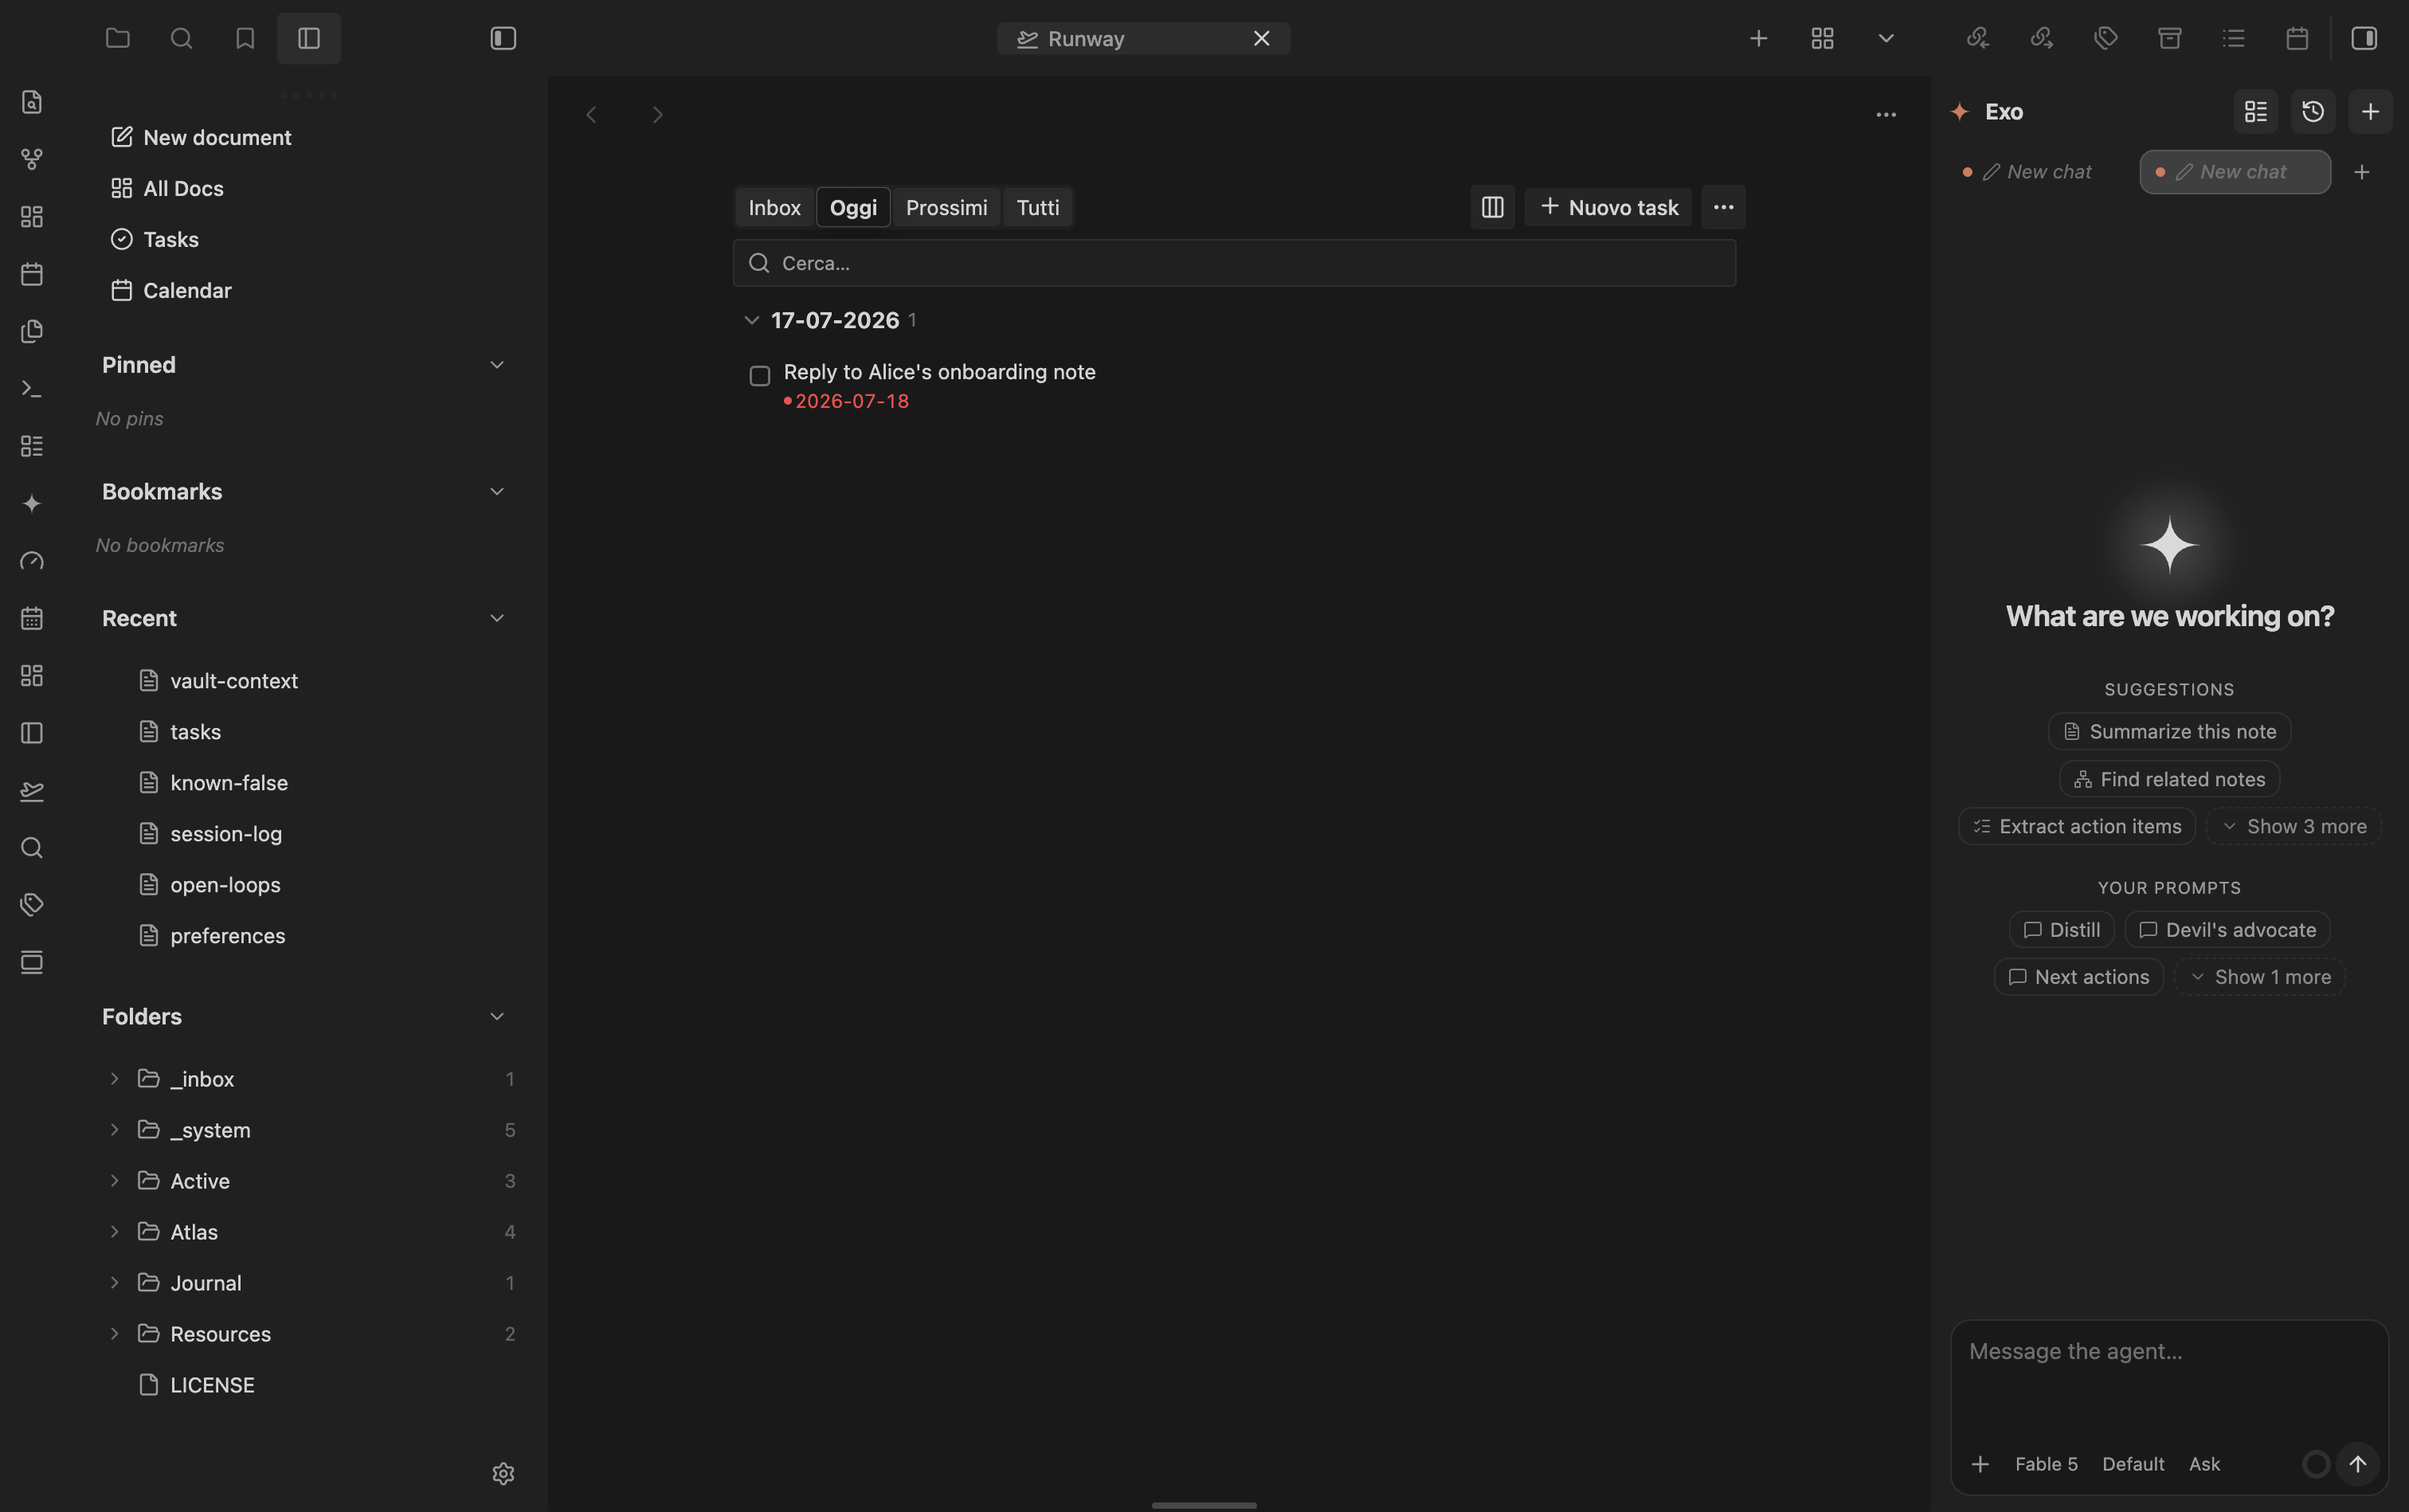
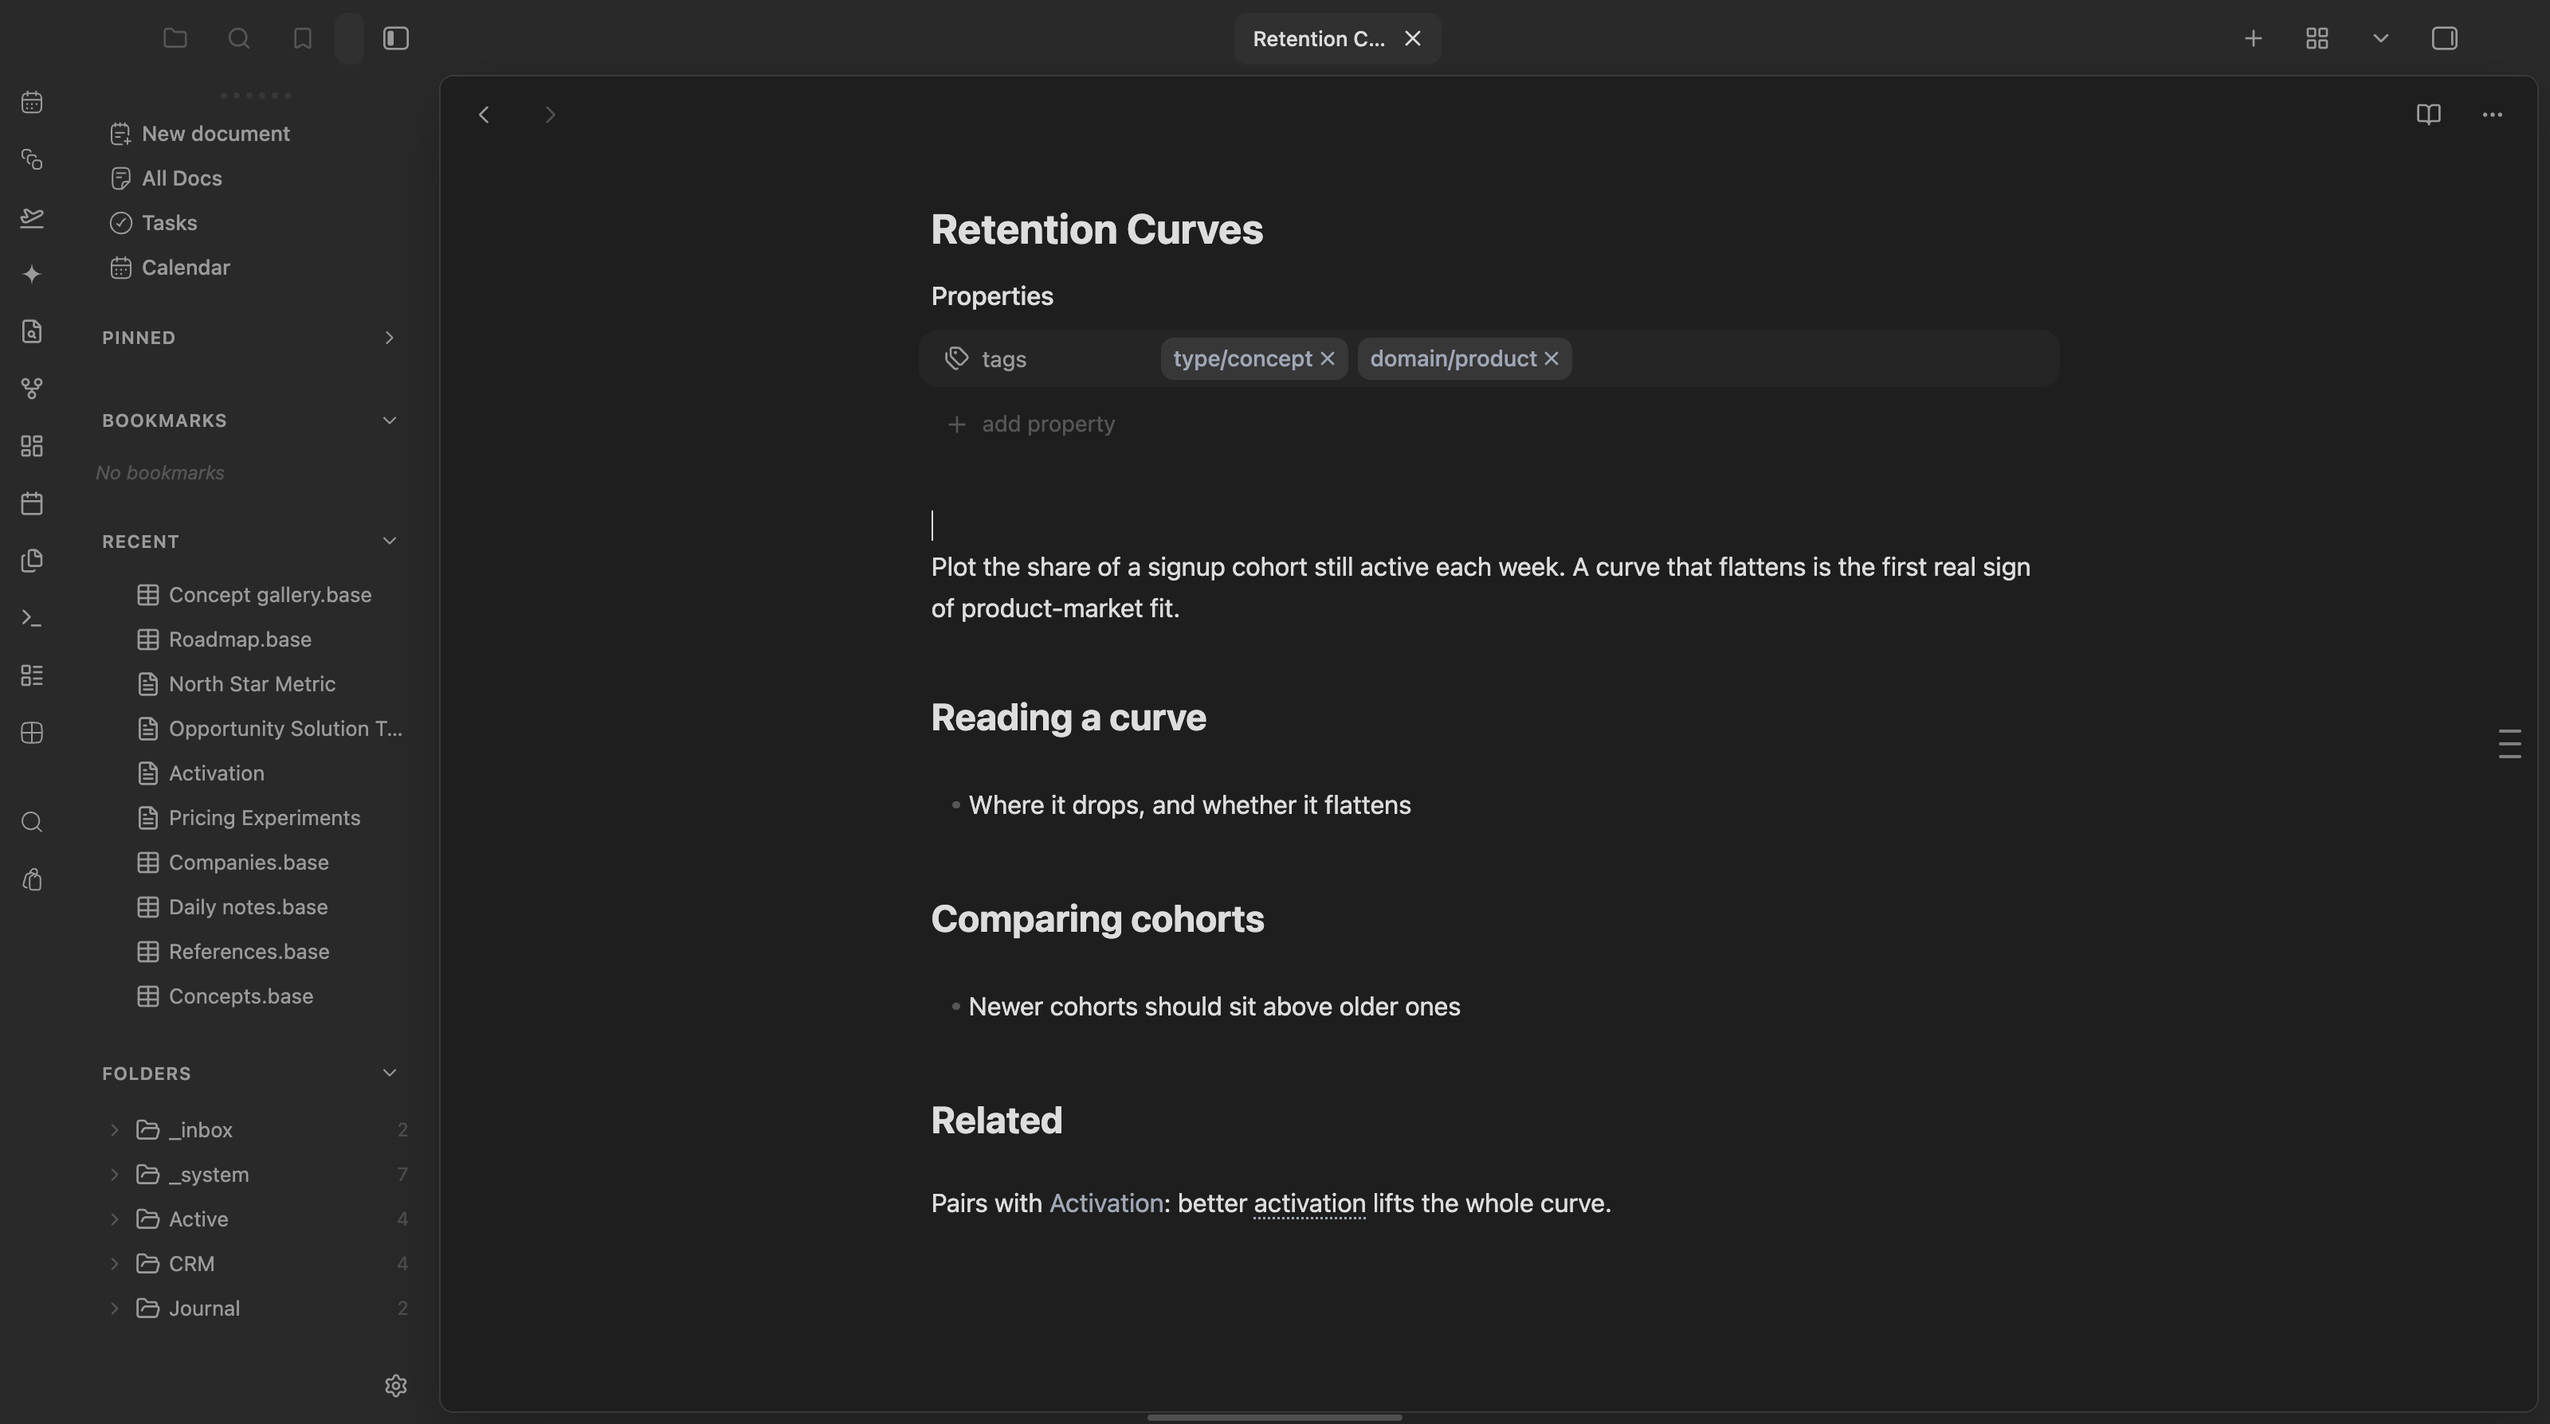
docs: real screenshots from the sample vault in the README
Captured in Obsidian with Cosmos and the current plugin build, on the
public obsidianverse sample vault.

diff --git a/README.md b/README.md
@@ -9,7 +9,7 @@ Part of the marioverse Obsidian plugin suite.
 <p align="center">
   <img src="docs/rail.png" width="900" alt="Portal — the unified sidebar rail" />
 </p>
-<p align="center"><em>Pinned, Bookmarks, Recent, Folders, Tags and Collections in one quiet rail.</em></p>
+<p align="center"><em>The nav block, Pinned, Bookmarks, Recent and Folders in one quiet rail, with Tags and Collections further down.</em></p>
 
 ## Features
 
